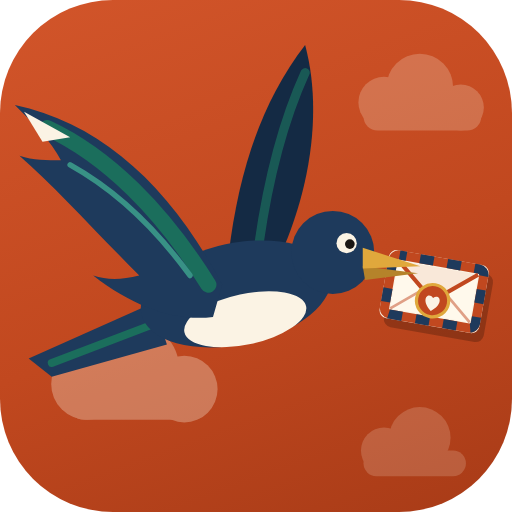
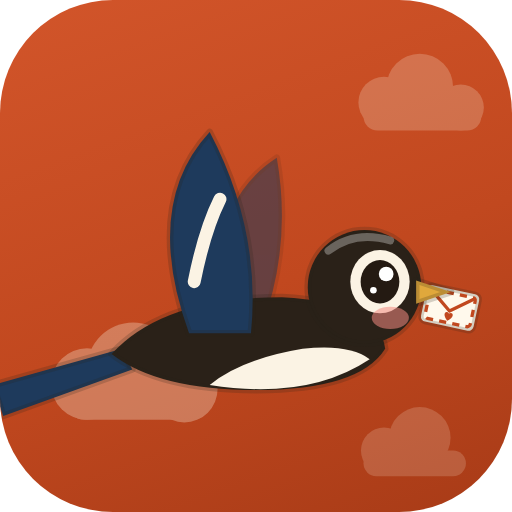
새 그림을 귀여운 1안으로, 지도 위 나는 새와 앱 아이콘은 편지 문 나는 모습
Claude-Session: https://claude.ai/code/session_01GA1ocwaYjo7gRcQeBhuum6

Changed region(s): [[0.0, 0.0938, 0.9688, 0.8125]]

diff --git a/src/components/CuteBird.tsx b/src/components/CuteBird.tsx
@@ -1,5 +1,5 @@
 /**
- * 귀여운 새 3종(까치·비둘기·매) 시안 — 2026-11-01 대표님: "더 귀엽게" → "너무 뚱뚱해, 3안까지".
+ * 귀여운 새 3종(까치·비둘기·매) — 2026-11-01 대표님: "더 귀엽게" → "너무 뚱뚱해, 3안까지" → "1안으로, 지도에 나는 새와 앱 아이콘은 나는 모습(C)".
  *  A 날씬 동글: 둥근 머리 + 날씬한 물방울 몸, 서 있는 모습
  *  B 머리 큰 이모티콘: 큰 머리 + 작고 가는 몸, 긴 꼬리
  *  C 나는 모습: 날개를 위로 편 날씬한 옆모습(발은 접음)
@@ -51,8 +51,20 @@ function Beak({ id, x, y, s }: { id: string; x: number; y: number; s: number }) 
   );
 }
 
+/** 부리에 문 편지(항공우편 봉투 + 하트 도장) */
+function Envelope({ x, y, s = 1 }: { x: number; y: number; s?: number }) {
+  return (
+    <g transform={`translate(${x} ${y}) rotate(12) scale(${s})`}>
+      <rect x="0" y="-9" width="26" height="18" rx="2.5" fill="#FFF9EC" style={RIM} />
+      <rect x="1.8" y="-7.2" width="22.4" height="14.4" rx="1.5" fill="none" stroke="#C1481F" strokeWidth="1.6" strokeDasharray="3.5 3" />
+      <path d="M2 -7 L13 1.5 L24 -7" fill="none" stroke="#C1481F" strokeWidth="1.6" strokeLinejoin="round" />
+      <path d="M13 6.4 C9.6 3.8 11.2 1.2 13 2.8 C14.8 1.2 16.4 3.8 13 6.4 Z" fill="#C1481F" />
+    </g>
+  );
+}
+
 /* ───── A 날씬 동글 ───── */
-function A({ id }: { id: string }) {
+function A({ id, letter }: { id: string; letter?: boolean; flap?: boolean }) {
   const p = PAL[id];
   const long = id === "magpie";
   return (
@@ -71,13 +83,14 @@ function A({ id }: { id: string }) {
       <path d="M122 46 Q134 36 150 40" style={ln("#fff", 3.4, 0.3)} />
       <Eye x={147} y={58} r={8.5} ring={id === "magpie"} />
       <Blush x={151} y={74} />
+      {letter && <Envelope x={168} y={66} s={0.95} />}
       <Beak id={id} x={164} y={62} s={1} />
     </>
   );
 }
 
 /* ───── B 머리 큰 이모티콘 ───── */
-function B({ id }: { id: string }) {
+function B({ id, letter }: { id: string; letter?: boolean; flap?: boolean }) {
   const p = PAL[id];
   const long = id === "magpie";
   return (
@@ -96,45 +109,59 @@ function B({ id }: { id: string }) {
       <path d="M102 44 Q118 30 140 34" style={ln("#fff", 4, 0.3)} />
       <Eye x={138} y={60} r={11} ring={id === "magpie"} />
       <Blush x={142} y={80} s={1.2} />
+      {letter && <Envelope x={164} y={72} />}
       <Beak id={id} x={160} y={66} s={1.1} />
     </>
   );
 }
 
 /* ───── C 나는 모습 ───── */
-function C({ id }: { id: string }) {
+function C({ id, letter, flap }: { id: string; letter?: boolean; flap?: boolean }) {
+  // 날개 퍼덕임(지도 위 새): 어깨(96,90)를 중심으로 위아래
+  const beat = (far: boolean) => flap ? <animateTransform attributeName="transform" type="rotate" values={far ? "-14 104 88; 20 104 88; -14 104 88" : "-22 96 90; 28 96 90; -22 96 90"} dur="0.55s" repeatCount="indefinite" /> : null;
   const p = PAL[id];
   const long = id === "magpie";
   return (
     <>
-      <path d="M96 86 Q90 40 118 22 Q124 56 112 88 Z" style={{ ...f(p.wing), opacity: 0.55 }} />
+      <g>{beat(true)}<path d="M96 86 Q90 40 118 22 Q124 56 112 88 Z" style={{ ...f(p.wing), opacity: 0.55 }} /></g>
       <path d={long ? "M58 96 L8 110 L12 122 L62 104 Z" : "M58 96 L22 106 L26 118 L62 104 Z"} style={f(p.tail)} />
       <path d="M54 98 Q74 76 120 76 Q158 78 160 96 Q150 112 110 112 Q72 112 54 98 Z" style={f(p.body)} />
       <path d="M92 110 Q130 116 154 100 Q146 94 128 96 Q104 100 92 110 Z" fill={p.belly} />
       {id === "pigeon" && <path d="M136 80 Q150 86 158 82 Q160 94 146 96 Q136 92 136 80 Z" fill="#3EA890" />}
       {id === "hawk" && <path d="M110 104 l3 3 l3 -3 M122 106 l3 3 l3 -3" style={ln("#B58257", 2.4)} />}
-      <path d="M84 90 Q66 40 92 12 Q112 50 108 90 Z" style={f(p.wing)} />
-      {id === "magpie" && <path d="M86 70 Q90 50 96 38" style={ln("#FBF3E4", 5)} />}
-      {id === "pigeon" && <path d="M86 62 Q92 56 98 60 M88 74 Q94 68 102 72" style={ln("#6F8094", 3)} />}
-      {id === "hawk" && <path d="M84 50 l6 2 M86 62 l7 2 M88 74 l7 2" style={ln("#E0A83C", 2.4, 0.8)} />}
+      <g>
+        {beat(false)}
+        <path d="M84 90 Q66 40 92 12 Q112 50 108 90 Z" style={f(p.wing)} />
+        {id === "magpie" && <path d="M86 70 Q90 50 96 38" style={ln("#FBF3E4", 5)} />}
+        {id === "pigeon" && <path d="M86 62 Q92 56 98 60 M88 74 Q94 68 102 72" style={ln("#6F8094", 3)} />}
+        {id === "hawk" && <path d="M84 50 l6 2 M86 62 l7 2 M88 74 l7 2" style={ln("#E0A83C", 2.4, 0.8)} />}
+      </g>
       <circle cx="152" cy="72" r="22" style={f(p.body)} />
       <HeadMark id={id} hx={152} hy={72} r={22} />
       <path d="M138 58 Q148 50 162 54" style={ln("#fff", 3, 0.3)} />
       <Eye x={158} y={70} r={7.5} ring={id === "magpie"} />
       <Blush x={162} y={84} s={0.9} />
+      {letter && <Envelope x={175} y={78} s={0.8} />}
       <Beak id={id} x={172} y={74} s={0.9} />
     </>
   );
 }
 
-const V: Record<string, (p: { id: string }) => JSX.Element> = { A, B, C };
+type ArtProps = { id: string; letter?: boolean; flap?: boolean };
+const V: Record<string, (p: ArtProps) => JSX.Element> = { A, B, C };
 export const CUTE_BIRDS = Object.keys(PAL);
+export const isCute = (id: string) => id in PAL;
 
-export default function CuteBird({ id, variant = "A", size = 64, className }: { id: string; variant?: "A" | "B" | "C"; size?: number; className?: string }) {
+/** svg 안에 바로 넣는 그림(viewBox 200x160 좌표). A = 앱 전체 새(2026-11-01 대표님 확정 1안), C = 지도 위 나는 새·앱 아이콘 */
+export function CuteArt({ id, variant = "A", letter, flap }: ArtProps & { variant?: "A" | "B" | "C" }) {
   const Art = V[variant] ?? A;
+  return <Art id={PAL[id] ? id : "pigeon"} letter={letter} flap={flap} />;
+}
+
+export default function CuteBird({ id, variant = "A", size = 64, className, letter }: { id: string; variant?: "A" | "B" | "C"; size?: number; className?: string; letter?: boolean }) {
   return (
     <svg viewBox="0 0 200 160" width={size} height={(size * 160) / 200} className={className} aria-hidden>
-      <Art id={PAL[id] ? id : "pigeon"} />
+      <CuteArt id={id} variant={variant} letter={letter} />
     </svg>
   );
 }

diff --git a/src/components/FlyBird.tsx b/src/components/FlyBird.tsx
@@ -4,6 +4,8 @@
  * 새마다 색과 특징(제비 갈라진 꼬리, 까치 긴 꼬리, 두루미 붉은 정수리·긴 다리, 붕붕이 프로펠러)이 달라요.
  * 오른쪽을 보는 모습이 기본, 가운데가 (0,0). 부리에 편지를 물고 있어요.
  */
+import { CuteArt, isCute } from "./CuteBird";
+
 type Look = { body: string; wing: string; wing2: string; belly: string; head: string; beak: string; cheek?: string; tail: "fan" | "fork" | "long" | "short"; extra?: "crane" | "pigeon" | "swallow" | "hawk" };
 const LOOKS: Record<string, Look> = {
   hawk: { body: "#8A5A3C", wing: "#6B4229", wing2: "#5B3A29", belly: "#F1E2C8", head: "#8A5A3C", beak: "#E0A83C", tail: "fan", extra: "hawk" },
@@ -32,6 +34,21 @@ export default function FlyBird({ birdId, x, y, angle = 0, size = 1, still }: { 
             <circle cx="6" cy="1" r="6" fill="#FBF3E4" stroke="#5B3A29" strokeWidth="1.5" /><circle cx="7.5" cy="1" r="2.8" fill="#241a12" /><circle cx="8.6" cy="-0.2" r="1" fill="#fff" />
             <ellipse cx="-6" cy="6" rx="3" ry="2" fill="#F29B8E" opacity=".8" />
             <g transform="translate(13 9) rotate(-10)"><rect x="0" y="-4" width="12" height="8" rx="1.5" fill="#fff" stroke="#C1481F" strokeWidth="1.2" /><path d="M0.5 -3.4 L6 0.6 L11.5 -3.4" fill="none" stroke="#C1481F" strokeWidth="1" /></g>
+          </g>
+        </g>
+      </g>
+    );
+  }
+
+  // 새 3종(까치·비둘기·매)은 귀여운 나는 모습(C안, 2026-11-01 대표님 확정): 날개 퍼덕임 + 부리에 편지
+  if (isCute(birdId)) {
+    return (
+      <g transform={`translate(${x} ${y})`} className="flybird" aria-hidden>
+        <ellipse cx={4 * size} cy={26 * size} rx={16 * size} ry={3.8 * size} className="fb-shadow">{anim("1 1; 0.86 0.86; 1 1", "1.2s", "scale")}</ellipse>
+        <g transform={`scale(${size}) ${flip} rotate(${tilt})`}>
+          <g>
+            {anim("0 0; 0 -3.5; 0 0", "1.2s", "translate")}
+            <g transform="scale(0.32) translate(-116 -78)"><CuteArt id={birdId} variant="C" letter flap={!still} /></g>
           </g>
         </g>
       </g>

diff --git a/src/components/BirdIcon.tsx b/src/components/BirdIcon.tsx
@@ -4,6 +4,7 @@
  * 모두 오른쪽을 보는 옆모습, viewBox 200x160. HTML에서도, 지도(svg) 안에서도 x/y를 주면 쓸 수 있어요.
  */
 import type { CSSProperties } from "react";
+import { CuteArt, isCute } from "./CuteBird";
 
 const c = (v: string): CSSProperties => ({ fill: `var(${v})` });
 const s = (v: string, w: number): CSSProperties => ({ stroke: `var(${v})`, strokeWidth: w, strokeLinecap: "round", strokeLinejoin: "round", fill: "none" });
@@ -303,6 +304,8 @@ type Props = {
 };
 
 export default function BirdIcon({ id, size = 40, className, x, y, title, letter }: Props) {
+  // 지금 고를 수 있는 새 3종(까치·비둘기·매)은 귀여운 새 그림(1안), 빠진 새는 예전 그림(예전 편지용)
+  const cute = isCute(id);
   const Art = ART[id] ?? Pigeon;
   return (
     <svg
@@ -318,8 +321,7 @@ export default function BirdIcon({ id, size = 40, className, x, y, title, letter
       focusable="false"
       style={letter ? { overflow: "visible" } : undefined}
     >
-      {letter && <Letter id={id} />}
-      <Art />
+      {cute ? <CuteArt id={id} letter={letter} /> : <>{letter && <Letter id={id} />}<Art /></>}
     </svg>
   );
 }

diff --git a/src/app/globals.css b/src/app/globals.css
@@ -38,7 +38,7 @@
     --on-nam: #10161F;
     --hwangto-text: #F0BC5C;
     --b-cream: #F3E9D8; --b-ink: #E9DDC8; --b-brown: #B58257; --b-brown2: #8A5A3C;
-    --b-grey: #A9B7C6; --b-grey2: #7F90A3; --b-edge: rgba(243, 233, 216, 0.0);
+    --b-grey: #A9B7C6; --b-grey2: #7F90A3; --b-edge: rgba(243, 233, 216, 0.0); --cb-rim: rgba(243, 233, 216, 0.5);
     --sea: #1C2B34; --land-dim: #2B251E; --coast: #5E5039; --grid: rgba(157, 191, 227, 0.10); --map-text: #E6DAC4;
     --lbl-halo: #1A1613; /* 어두운 모드: 지도 글자 테두리는 어둡게 (밝은 글자가 뭉개지지 않게) */
   }

diff --git a/CLAUDE.md b/CLAUDE.md
@@ -29,6 +29,7 @@
 | 까치 | 약 35km | 하루 | 약 2일 7시간 | 50통에 1번 | 특별 (도착 연출이 특별함) |
 
 - **새 3종·진짜 새 속도(2026-11-01 밤, 대표님: "새별 속도가 진짜 새랑 동일하게, 종류가 많아 느린·중간·빠른 3개만" → 기획팀 추천대로 결정)**: 고를 수 있는 새 = **까치(약 35km/h, 최소 2시간)·비둘기(약 65km/h, 최소 1시간)·매(약 90km/h, 최소 30분)**. 걸리는 시간 = max(최소 시간 `realMin`, 순항 시간) — 쉬는 배수 없음, `core/flight.ts REAL_SINCE`(2026-11-01 22:30) 뒤 편지부터. 서울-부산: 매 3시간 37분·비둘기 5시간·까치 9시간 17분. 제비·두루미·붕붕이는 `retired`(예전 편지 그림·시간에만, `ALL_BIRDS`·`getBird`), 고르기·내 새·무작위는 `BIRDS`(3종). 내 새가 빠진 새면 홈에서 남은 3종으로 자동 교체, `/bungbungi`는 홈으로. 빠진 새는 나중에 계절 한정 새 후보. 아래 6종 표·성격 항목은 옛 기록. test:core 436.
+- **귀여운 새 그림(2026-11-01 밤, 대표님: "더 귀엽게"→"너무 뚱뚱해, 3안까지"→"1안으로, 날아갈 때 지도는 4안(=나는 모습), 앱 바로가기도 새가 편지 문 모습")**: `src/components/CuteBird.tsx`(A 날씬 동글·B 머리 큰 이모티콘·C 나는 모습, 큰 눈·볼터치). 앱 전체 새(`BirdIcon`)는 3종이면 **A**, 지도 위 나는 새(`FlyBird`)는 **C + 날개 퍼덕임 + 부리에 편지**, 앱 아이콘·시작 화면·알림 아이콘은 **C 까치 + 편지**(`promo/build-icons.mts`, SNS 프로필 사진은 예전 그림 그대로). 빠진 새는 예전 그림. 어두운 화면 테두리 `--cb-rim`. 스토어 앱 아이콘은 새 앱 파일(빌드)부터, 홈 화면 아이콘은 지우고 다시 추가해야 바뀜. 스토어 화면 사진·홍보 카드는 다시 만들어야 새 그림.
 - **새마다 다른 성격(2026-10-17 저녁, 대표님: "다 1시간이라 다른 점이 없어, 빠른 건 분·느린 건 시간·진짜 느린 건 하루")**: 걸리는 시간 = max(새의 최소 시간 `minMin`, 순항 시간 × 새의 쉬는 배수 `rest`). 값은 `core/birds.ts`(매 1.5배·10분, 붕붕이 2배·30분, 비둘기 3배·1시간, 제비 3배·3시간, 두루미 5배·6시간, 까치 6배·하루). `core/flight.ts TIER_SINCE`(2026-10-17 21:00) 뒤에 보낸 편지부터(이미 보낸 편지는 그대로). 하루가 넘으면 "1일 7시간"으로 표시(`formatMinutes`). **새 고르기 줄은 빠른 순서(매·붕붕이·비둘기·제비·두루미·까치)로 6종이 한 줄에 다 보임**(`BIRDS_SLOW_TO_FAST`는 실제 걸리는 시간 기준, `.ch-birds` 6칸 격자). **주의: 매가 훨씬 빨라져서, 매를 유료로 팔면 "시간 단축 결제"로 보일 위험이 커짐 → 유료 새 결정 전 재무·법무 재검토 필요.**
 
 - **쉬어 가며 날기(2026-10-17, 대표님: "새들이 너무 빠르다, 더 오래 걸리게")**: 걸리는 시간 = 순항 속도로 계산한 시간 × **3**(쉬고·먹고·바람 피하는 시간), **최소 1시간**(같은 동네도). 값은 `core/geo.ts REST_FACTOR·MIN_FLIGHT_MIN` 한곳, `core/flight.ts SLOW_SINCE`(2026-10-17 06:00) 뒤에 보낸 편지부터 적용(이미 보낸 편지는 그대로). 새끼리 빠르고 느린 순서는 그대로. 순항만 계산한 값은 `cruiseMinutes`. test:core 291.
